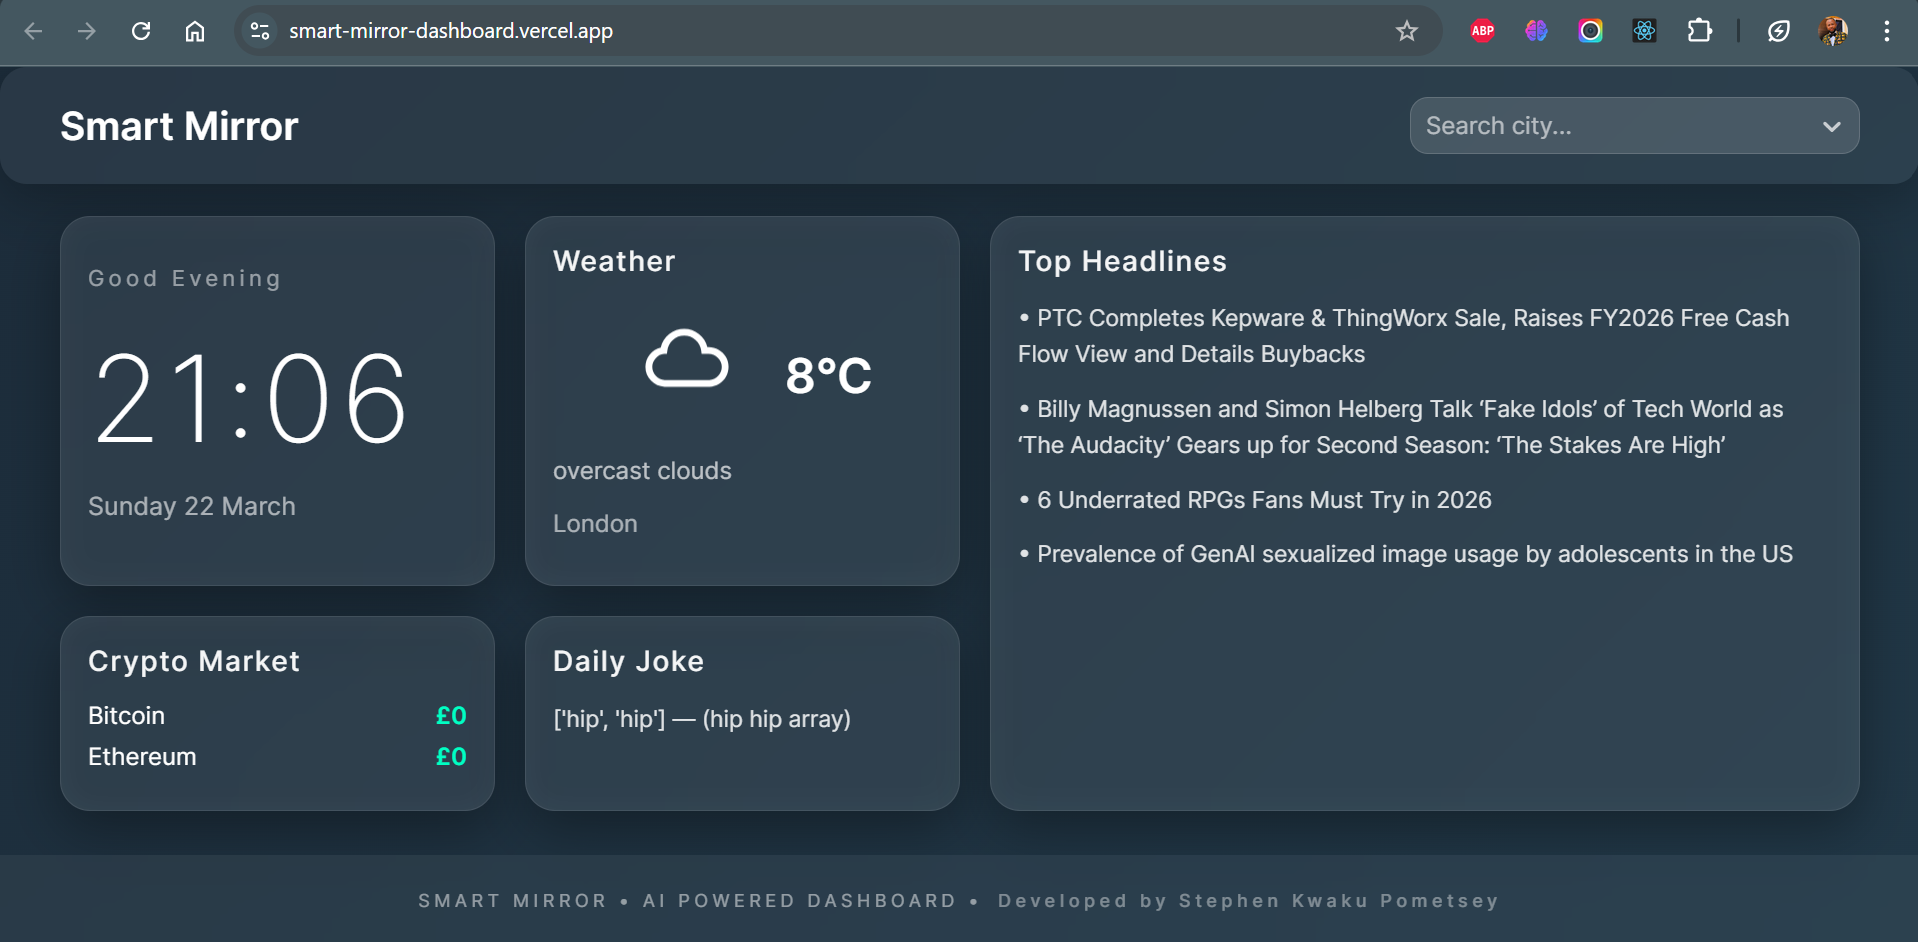
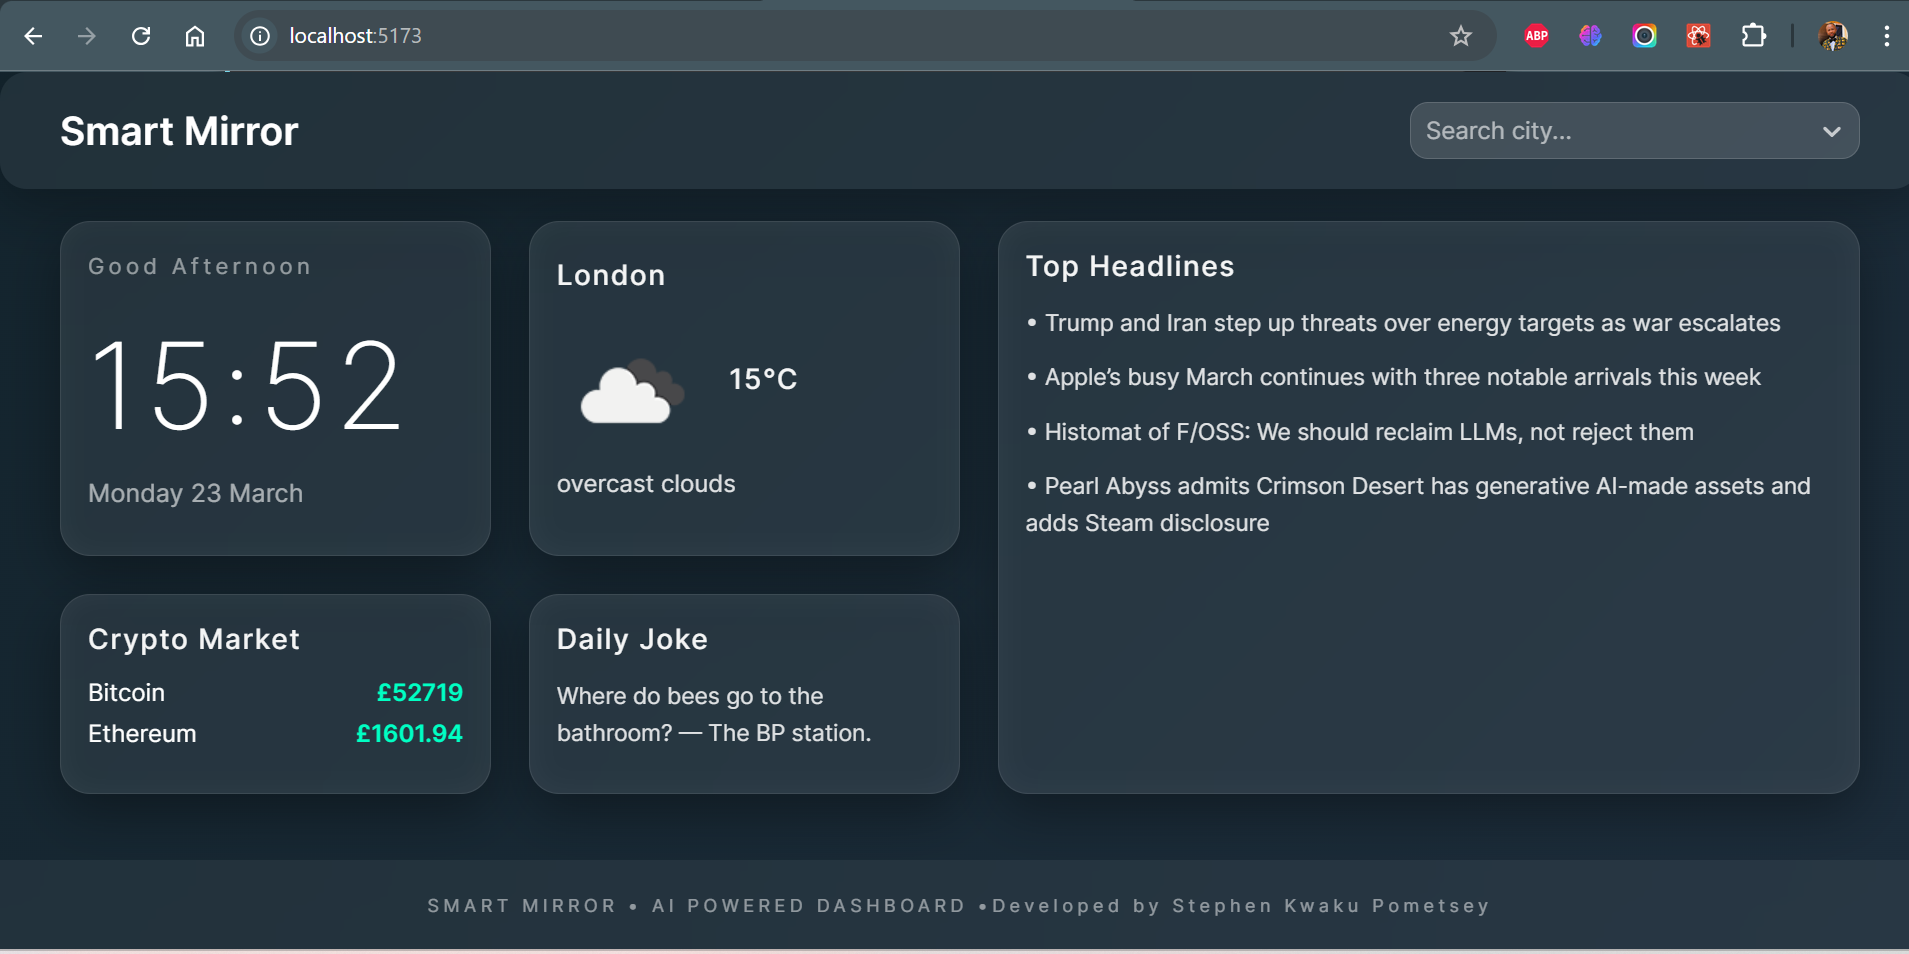
made update to crypto

diff --git a/client/src/components/CryptoWidget.jsx b/client/src/components/CryptoWidget.jsx
@@ -1,39 +1,60 @@
+// const CryptoWidget = ({ crypto }) => {
+//   console.log("CryptoWidget receives:", crypto);
+
+//   if (!crypto) {
+//     return (
+//       <div className="widget bitcoin-widget">
+//         <h3>Crypto Market</h3>
+//         <p>Loading...</p>
+//       </div>
+//     );
+//   }
+
+//   const formatGBP = (value) => {
+//     if (!value) return "£0";
+
+//     return new Intl.NumberFormat("en-GB", {
+//       style: "currency",
+//       currency: "GBP",
+//       maximumFractionDigits: 0
+//     }).format(Number(value));
+//   };
+
+//   return (
+//     <div className="widget bitcoin-widget">
+//       <h3>Crypto Market</h3>
+
+//       <div className="crypto-row">
+//         <span>Bitcoin</span>
+//         <strong>{formatGBP(crypto?.bitcoin)}</strong>
+//       </div>
+
+//       <div className="crypto-row">
+//         <span>Ethereum</span>
+//         <strong>{formatGBP(crypto?.ethereum)}</strong>
+//       </div>
+
+//     </div>
+//   );
+// };
+
+// export default CryptoWidget;
+
+
 const CryptoWidget = ({ crypto }) => {
-  console.log("CryptoWidget receives:", crypto);
-
-  if (!crypto) {
-    return (
-      <div className="widget bitcoin-widget">
-        <h3>Crypto Market</h3>
-        <p>Loading...</p>
-      </div>
-    );
-  }
-
-  const formatGBP = (value) => {
-    if (!value) return "£0";
-
-    return new Intl.NumberFormat("en-GB", {
-      style: "currency",
-      currency: "GBP",
-      maximumFractionDigits: 0
-    }).format(Number(value));
-  };
-
   return (
     <div className="widget bitcoin-widget">
       <h3>Crypto Market</h3>
 
       <div className="crypto-row">
         <span>Bitcoin</span>
-        <strong>{formatGBP(crypto?.bitcoin)}</strong>
+        <strong>£{crypto.bitcoin}</strong>
       </div>
 
       <div className="crypto-row">
         <span>Ethereum</span>
-        <strong>{formatGBP(crypto?.ethereum)}</strong>
+        <strong>£{crypto.ethereum}</strong>
       </div>
-
     </div>
   );
 };

diff --git a/server/services/cryptoService.js b/server/services/cryptoService.js
@@ -1,23 +1,38 @@
 
- import { fetchCryptoData } from "../clients/cryptoApiClient.js";
+//  import { fetchCryptoData } from "../clients/cryptoApiClient.js";
+
+// export const getCrypto = async () => {
+//   try {
+
+//     const data = await fetchCryptoData();
+//     if (!data || !data.bitcoin || !data.ethereum) {
+//     console.error("Crypto data missing:", data);
+//    }
+
+//     return {
+//       bitcoin: data.bitcoin,
+//       ethereum: data.ethereum
+//     };
+
+//   } catch (error) {
+
+//     console.error("Crypto API failed:", error.message);
+
+//     return {
+//       bitcoin: null,
+//       ethereum: null
+//     };
+//   }
+// };
+
+
+import { fetchCryptoData } from "../clients/cryptoApiClient.js";
 
 export const getCrypto = async () => {
-  try {
+  const data = await fetchCryptoData();
 
-    const data = await fetchCryptoData();
-
-    return {
-      bitcoin: data.bitcoin,
-      ethereum: data.ethereum
-    };
-
-  } catch (error) {
-
-    console.error("Crypto API failed:", error.message);
-
-    return {
-      bitcoin: null,
-      ethereum: null
-    };
-  }
+  return {
+    bitcoin: data.bitcoin.gbp,
+    ethereum: data.ethereum.gbp,
+  };
 };

diff --git a/server/clients/cryptoApiClient.js b/server/clients/cryptoApiClient.js
@@ -1,17 +1,32 @@
+// import axios from "axios";
+
+// export const fetchCryptoData = async () => {
+
+//   // const btc = await axios.get(
+//   //   "https://min-api.cryptocompare.com/data/price?fsym=BTC&tsyms=GBP"
+//   // );
+
+//   const eth = await axios.get(
+//     //"https://min-api.cryptocompare.com/data/price?fsym=ETH&tsyms=GBP"
+//     "https://min-api.cryptocompare.com/data/pricemulti?fsyms=BTC,ETH&tsyms=GBP"
+    
+//   );
+
+//   return {
+//     //bitcoin: btc.data.GBP,
+//     //ethereum: eth.data.GBP
+//      bitcoin: res.data.BTC.GBP,
+//      ethereum: res.data.ETH.GBP
+
+//   };
+// };
+
 import axios from "axios";
 
 export const fetchCryptoData = async () => {
+  const url =
+    "https://api.coingecko.com/api/v3/simple/price?ids=bitcoin,ethereum&vs_currencies=gbp";
 
-  const btc = await axios.get(
-    "https://min-api.cryptocompare.com/data/price?fsym=BTC&tsyms=GBP"
-  );
-
-  const eth = await axios.get(
-    "https://min-api.cryptocompare.com/data/price?fsym=ETH&tsyms=GBP"
-  );
-
-  return {
-    bitcoin: btc.data.GBP,
-    ethereum: eth.data.GBP
-  };
+  const response = await axios.get(url);
+  return response.data;
 };
